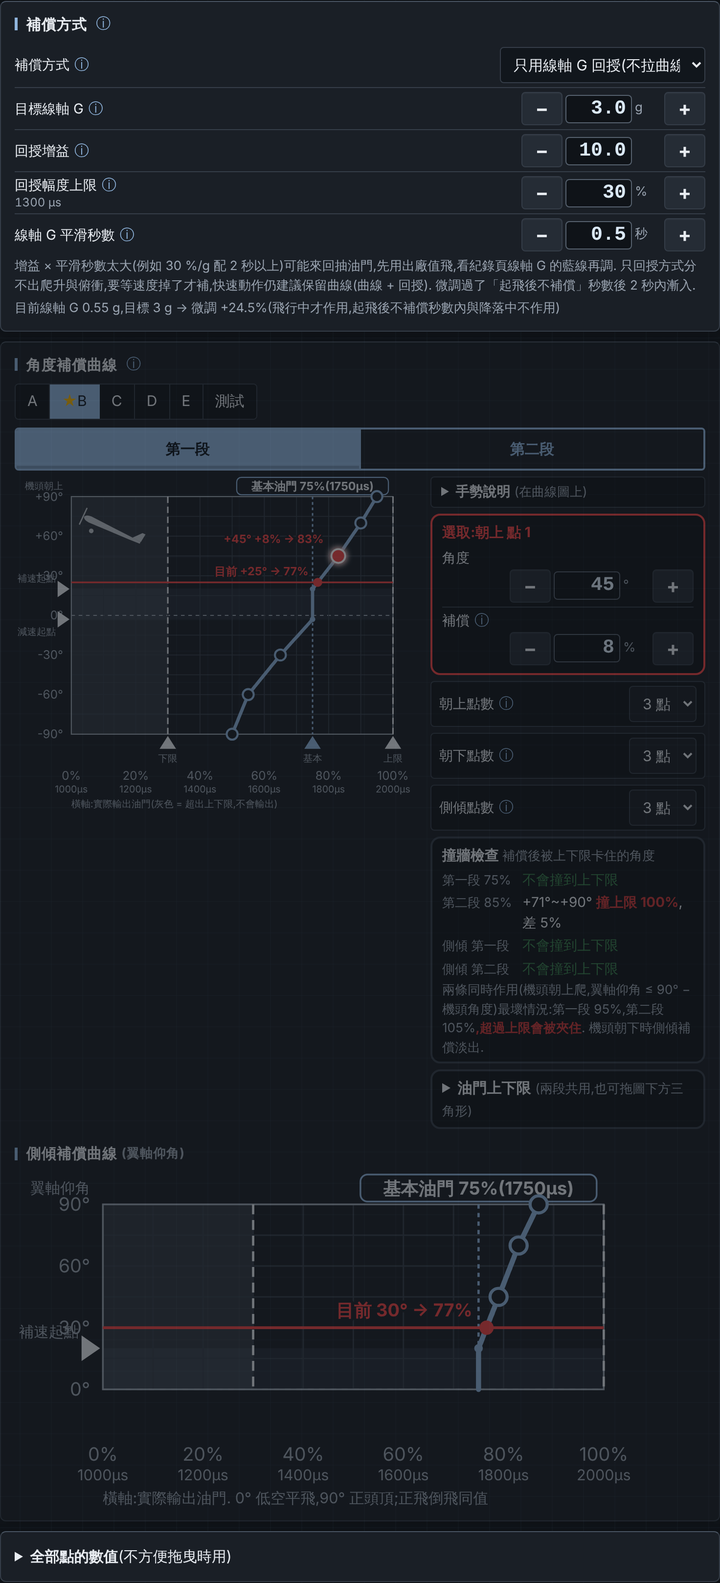
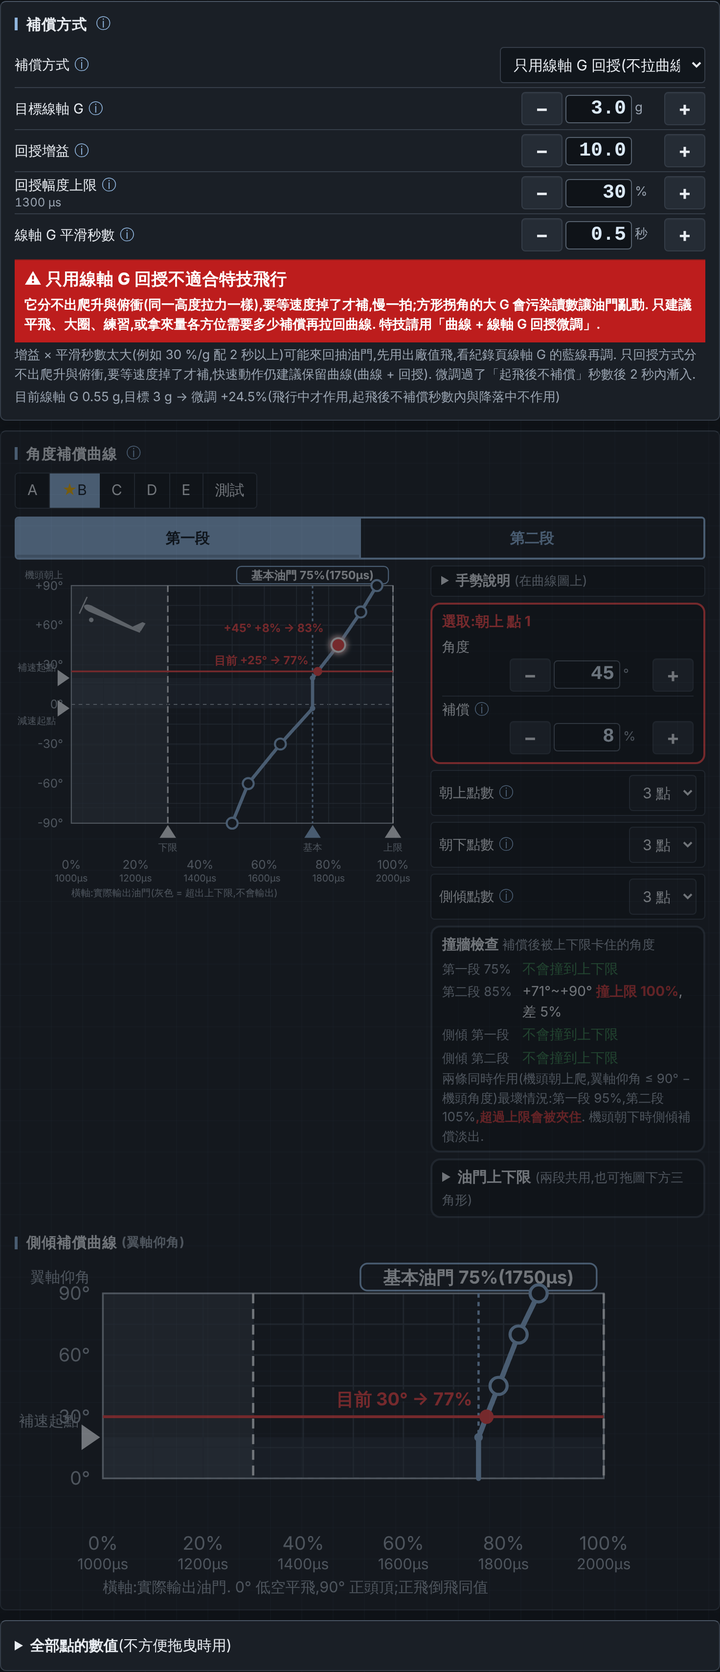
只回授選項加警語;飛行紀錄改存快閃 spiffs 分割區(斷電保留,倒數預擦,飛行中只寫頁);版本 2026.10.30.1
- web_page r99/r100:「只用線軸 G 回授」卡片內紅色警語;紀錄頁說明改成斷電保留
- flight_log r4/r5:128KB spiffs 分割區當環形紀錄(32 區塊 × 371 筆,序號標頭,mmap 讀取,RAM 佇列),約 19 分鐘;
  main r21 開機接續與 loop 寫入;flight r32 進入倒數時預擦這趟要用的區塊. RAM 38.6% → 19.3%
- 規格第 3 節,CLAUDE.md 關鍵決策,開發紀錄補上;截圖重拍(只回授警語),PDF 重產

Claude-Session: https://claude.ai/code/session_01BkPoWZidLMCM1nEQiRaMHx

diff --git a/src/flight_log.cpp b/src/flight_log.cpp
@@ -1,13 +1,41 @@
-// 版本流水號: r4 (2026-10-29) 每筆加翼軸仰角與方位角(區間最後的值)
+// 版本流水號: r5 (2026-10-30) 改存快閃 spiffs 分割區(環形,序號標頭,mmap 讀取,倒數預擦,loop 寫頁);RAM 佇列取代 66KB 環形緩衝
+// 舊: r4 (2026-10-29) 每筆加翼軸仰角與方位角(區間最後的值)
 // 舊: r3 (2026-10-29) 每筆加線軸 G(區間最後的低通值)
 // 舊: r2 (2026-09-13) 修正每筆實際 105ms(區間起點改走固定 100ms 格點)
 // 舊: r1 (2026-09-13) 初版:0.1 秒一筆的環形紀錄(角度,油門,G 力,Z 抖動,短尖峰,手勢推力,狀態)
 #include "flight_log.h"
+#include <esp_partition.h>
 
-static FlightLogSample buffer[FLIGHT_LOG_CAPACITY];
-static volatile uint32_t total = 0;
+// --- 快閃版面 ---
+static const uint32_t SECTOR = 4096;
+static const uint16_t MAGIC = 0x474C;   // "LG"
+struct __attribute__((packed)) SectorHeader {
+  uint16_t magic;
+  uint32_t seq;        // 從 1 起遞增,0 不用
+  uint8_t sampleSize;  // sizeof(FlightLogSample),格式變了舊區塊就當無效
+  uint8_t reserved;
+};
+static const uint16_t SAMPLES_PER_SECTOR = (SECTOR - sizeof(SectorHeader)) / sizeof(FlightLogSample);   // 371
+static const uint32_t PREPARE_MARGIN_SAMPLES = 600;   // 預擦多留 1 分鐘
 
-// 目前區間的累積
+static const esp_partition_t *part = nullptr;
+static const uint8_t *mapped = nullptr;   // mmap 後的唯讀視窗
+static uint16_t sectorCount = 0;
+static uint16_t headSector = 0;           // 正在寫的區塊
+static uint32_t headSeq = 0;              // 它的序號(0 = 還沒開始寫)
+static uint16_t headSlot = 0;             // 區塊內下一筆位置
+static uint32_t oldestSeq = 0;            // 保留範圍內最舊的序號
+static volatile uint32_t flashedTotal = 0;   // 已寫進快閃的全域筆數 = headSeq*371 + headSlot(headSeq 從 1 起,減 1 個區塊)
+static uint32_t inflightErases = 0;
+
+// --- 控制工作 → loop 的佇列(單一生產者,單一消費者) ---
+static const uint16_t QUEUE_CAP = 256;    // 25 秒;loop 被 WiFi 卡住超過這麼久才會丟
+static FlightLogSample queueBuf[QUEUE_CAP];
+static volatile uint16_t qHead = 0, qTail = 0;
+static volatile uint32_t dropped = 0;
+static volatile uint32_t prepareRequest = 0;   // 要先擦好的筆數(0 = 沒有請求)
+
+// 目前區間的累積(控制工作)
 static bool slotOpen = false;
 static uint32_t slotStartMs = 0;
 static FlightLogSample slot;
@@ -15,6 +43,142 @@ static float slotAcc = 0, slotVib = 0, slotSpike = 0, slotPush = -100;
 
 static uint8_t clampU8(float v) { return v <= 0 ? 0 : (v >= 255 ? 255 : (uint8_t)lroundf(v)); }
 static int8_t clampI8(float v) { return v <= -127 ? -127 : (v >= 127 ? 127 : (int8_t)lroundf(v)); }
+
+static inline uint32_t globalIndex(uint32_t seq, uint16_t s) { return (seq - 1) * SAMPLES_PER_SECTOR + s; }
+
+static const SectorHeader *headerOf(uint16_t sec) { return (const SectorHeader *)(mapped + (uint32_t)sec * SECTOR); }
+static bool sectorValid(uint16_t sec) {
+  const SectorHeader *h = headerOf(sec);
+  return h->magic == MAGIC && h->seq != 0 && h->seq != 0xFFFFFFFFu && h->sampleSize == sizeof(FlightLogSample);
+}
+static bool sectorErased(uint16_t sec) {
+  const uint32_t *p = (const uint32_t *)(mapped + (uint32_t)sec * SECTOR);
+  for (uint32_t i = 0; i < SECTOR / 4; ++i)
+    if (p[i] != 0xFFFFFFFFu) return false;
+  return true;
+}
+static bool sampleErased(const FlightLogSample *s) {
+  const uint8_t *b = (const uint8_t *)s;
+  for (size_t i = 0; i < sizeof(FlightLogSample); ++i)
+    if (b[i] != 0xFF) return false;
+  return true;
+}
+
+static void recomputeOldest() {
+  oldestSeq = 0;
+  for (uint16_t i = 0; i < sectorCount; ++i)
+    if (sectorValid(i) && (oldestSeq == 0 || headerOf(i)->seq < oldestSeq)) oldestSeq = headerOf(i)->seq;
+}
+
+void flightLogBegin() {
+  part = esp_partition_find_first(ESP_PARTITION_TYPE_DATA, ESP_PARTITION_SUBTYPE_DATA_SPIFFS, nullptr);
+  if (!part) {
+    Serial.println(F("flight log: no spiffs partition, log disabled"));
+    return;
+  }
+  esp_partition_mmap_handle_t h;
+  const void *ptr = nullptr;
+  if (esp_partition_mmap(part, 0, part->size, ESP_PARTITION_MMAP_DATA, &ptr, &h) != ESP_OK) {
+    Serial.println(F("flight log: mmap failed, log disabled"));
+    part = nullptr;
+    return;
+  }
+  mapped = (const uint8_t *)ptr;
+  sectorCount = part->size / SECTOR;
+  // 找序號最大的區塊接著寫;沒有任何有效區塊就從 0 號開始(第一次寫會擦)
+  uint32_t best = 0;
+  for (uint16_t i = 0; i < sectorCount; ++i)
+    if (sectorValid(i) && headerOf(i)->seq > best) { best = headerOf(i)->seq; headSector = i; }
+  if (best) {
+    headSeq = best;
+    const FlightLogSample *s = (const FlightLogSample *)(mapped + (uint32_t)headSector * SECTOR + sizeof(SectorHeader));
+    headSlot = 0;
+    while (headSlot < SAMPLES_PER_SECTOR && !sampleErased(&s[headSlot])) ++headSlot;
+  } else {
+    headSector = 0;
+    headSeq = 0;
+    headSlot = SAMPLES_PER_SECTOR;   // 第一筆就會開新區塊
+  }
+  recomputeOldest();
+  flashedTotal = headSeq ? globalIndex(headSeq, headSlot) : 0;
+  Serial.printf("flight log: flash %u sectors (%u samples, %.1f min), resume seq %lu slot %u, oldest seq %lu\n",
+                (unsigned)sectorCount, (unsigned)(sectorCount * SAMPLES_PER_SECTOR), sectorCount * SAMPLES_PER_SECTOR * 0.1f / 60,
+                (unsigned long)headSeq, (unsigned)headSlot, (unsigned long)oldestSeq);
+}
+
+// 開下一個區塊:沒擦的就地擦(飛行中會停 30~50ms,計數讓人看得到),寫標頭.
+static bool openNextSector(bool inFlight) {
+  const uint16_t next = headSeq ? (uint16_t)((headSector + 1) % sectorCount) : 0;
+  if (!sectorErased(next)) {
+    if (esp_partition_erase_range(part, (uint32_t)next * SECTOR, SECTOR) != ESP_OK) return false;
+    if (inFlight) {
+      ++inflightErases;
+      Serial.println(F("flight log: erased a sector in flight (flight longer than prepared)"));
+    }
+  }
+  const SectorHeader hdr = {MAGIC, headSeq + 1, (uint8_t)sizeof(FlightLogSample), 0xFF};
+  if (esp_partition_write(part, (uint32_t)next * SECTOR, &hdr, sizeof(hdr)) != ESP_OK) return false;
+  headSector = next;
+  headSeq = hdr.seq;
+  headSlot = 0;
+  recomputeOldest();   // 剛擦掉的可能是最舊的
+  return true;
+}
+
+void flightLogRequestPrepare(uint32_t samples) { prepareRequest = samples + PREPARE_MARGIN_SAMPLES; }
+
+// 預擦:從目前區塊之後開始,擦到能放下 samples 筆為止(已經是空的區塊跳過). 在地上做,停機沒關係.
+static void prepare(uint32_t samples) {
+  if (!part) return;
+  uint32_t room = headSeq ? (uint32_t)(SAMPLES_PER_SECTOR - headSlot) : 0;
+  uint16_t sec = headSeq ? headSector : (uint16_t)(sectorCount - 1);   // 還沒開始寫時,下一個區塊是 0 號
+  uint16_t erased = 0, visited = 0;
+  while (room < samples && visited < sectorCount - 1) {   // 最多擦到剩目前區塊,不把自己擦掉
+    sec = (uint16_t)((sec + 1) % sectorCount);
+    ++visited;
+    if (!sectorErased(sec)) {
+      if (esp_partition_erase_range(part, (uint32_t)sec * SECTOR, SECTOR) != ESP_OK) break;
+      ++erased;
+    }
+    room += SAMPLES_PER_SECTOR;
+  }
+  recomputeOldest();
+  Serial.printf("flight log: prepared %lu samples, erased %u sectors\n", (unsigned long)samples, (unsigned)erased);
+}
+
+void flightLogService(uint32_t nowMs) {
+  if (!part) {   // 沒有快閃:佇列只是丟掉
+    qTail = qHead;
+    return;
+  }
+  if (prepareRequest) {
+    const uint32_t n = prepareRequest;
+    prepareRequest = 0;
+    prepare(n);
+  }
+  static uint32_t lastFlushMs = 0;
+  const uint16_t pending = (uint16_t)((qHead - qTail + QUEUE_CAP) % QUEUE_CAP);
+  if (!pending || (nowMs - lastFlushMs < 1000 && pending < 23)) return;   // 每秒或湊滿約一頁(23 筆 = 253 位元組)才寫
+  lastFlushMs = nowMs;
+  // 佇列裡最新一筆的狀態決定「飛行中」(就地擦除計數用)
+  const bool inFlight = queueBuf[(qHead + QUEUE_CAP - 1) % QUEUE_CAP].state >= 4 && queueBuf[(qHead + QUEUE_CAP - 1) % QUEUE_CAP].state <= 6;
+  while (qTail != qHead) {
+    if (headSlot >= SAMPLES_PER_SECTOR || headSeq == 0) {
+      if (!openNextSector(inFlight)) return;   // 快閃失敗:這批留在佇列下次再試
+    }
+    // 連續的幾筆一次寫(同一區塊內),減少寫入次數
+    uint16_t n = 0;
+    FlightLogSample buf[32];
+    while (qTail != qHead && n < 32 && headSlot + n < SAMPLES_PER_SECTOR) {
+      buf[n++] = queueBuf[qTail];
+      qTail = (uint16_t)((qTail + 1) % QUEUE_CAP);
+    }
+    const uint32_t off = (uint32_t)headSector * SECTOR + sizeof(SectorHeader) + (uint32_t)headSlot * sizeof(FlightLogSample);
+    if (esp_partition_write(part, off, buf, n * sizeof(FlightLogSample)) != ESP_OK) return;
+    headSlot += n;
+    flashedTotal = globalIndex(headSeq, headSlot);
+  }
+}
 
 void flightLogFeed(float pitchDeg, float throttlePct, float accMagG, float vibG, float spikeG, float pushG,
                    float lineG, float sideDeg, float azimuthDeg, uint8_t state, uint8_t flags, uint32_t nowMs) {
@@ -45,21 +209,37 @@ void flightLogFeed(float pitchDeg, float throttlePct, float accMagG, float vibG,
   slot.vibCg2 = clampU8(slotVib * 50);
   slot.spikeDg = clampU8(slotSpike * 10);
   slot.pushDg = clampI8(slotPush * 10);
-  buffer[total % FLIGHT_LOG_CAPACITY] = slot;   // 先寫資料
-  total = total + 1;                             // 再推進計數
+  if (slot.throttlePct == 0xFF) slot.throttlePct = 0xFE;   // 全 0xFF 代表「還沒寫」,油門本來就不會到 255
+  const uint16_t next = (uint16_t)((qHead + 1) % QUEUE_CAP);
+  if (next == qTail) {   // 佇列滿:丟最舊的,計數
+    qTail = (uint16_t)((qTail + 1) % QUEUE_CAP);
+    ++dropped;
+  }
+  queueBuf[qHead] = slot;   // 先寫資料
+  qHead = next;             // 再推進
   slotOpen = false;
 }
 
-uint32_t flightLogTotal() { return total; }
+uint32_t flightLogTotal() { return flashedTotal; }
 
-uint32_t flightLogOldest() {
-  const uint32_t t = total;
-  // 環形已滿時丟掉最舊一筆:讀取期間它可能正被覆寫
-  return t > FLIGHT_LOG_CAPACITY ? t - FLIGHT_LOG_CAPACITY + 1 : 0;
-}
+uint32_t flightLogOldest() { return oldestSeq ? globalIndex(oldestSeq, 0) : flashedTotal; }
 
 bool flightLogGet(uint32_t index, FlightLogSample &out) {
-  if (index >= total || index < flightLogOldest()) return false;
-  out = buffer[index % FLIGHT_LOG_CAPACITY];
-  return true;
+  if (!part || !headSeq || index >= flashedTotal || index < flightLogOldest()) return false;
+  const uint32_t seq = index / SAMPLES_PER_SECTOR + 1, s = index % SAMPLES_PER_SECTOR;
+  // 序號 → 區塊:從目前區塊往回數(序號連續,中間不會跳號)
+  const uint32_t back = headSeq - seq;
+  if (back >= sectorCount) return false;
+  const uint16_t sec = (uint16_t)((headSector + sectorCount - back) % sectorCount);
+  if (!sectorValid(sec) || headerOf(sec)->seq != seq) return false;
+  memcpy(&out, mapped + (uint32_t)sec * SECTOR + sizeof(SectorHeader) + s * sizeof(FlightLogSample), sizeof(out));
+  return !sampleErased(&out);
+}
+
+void flightLogStats(bool &flashOk, uint16_t &sectors, uint32_t &seq, uint32_t &droppedOut, uint32_t &erases) {
+  flashOk = part != nullptr;
+  sectors = sectorCount;
+  seq = headSeq;
+  droppedOut = dropped;
+  erases = inflightErases;
 }

diff --git a/src/flight_log.h b/src/flight_log.h
@@ -1,21 +1,23 @@
-// 版本流水號: r3 (2026-10-29) 每筆加翼軸仰角 sideDeg(0~90)與方位角 azim(0~255 = 0~360°);一筆 11 位元組,3D 半球軌跡用
+// 版本流水號: r4 (2026-10-30) 改存快閃(GG:斷電保留):閒置的 spiffs 分割區 128KB 當環形紀錄,約 19 分鐘;控制工作只推進 RAM 佇列,
+//   Arduino loop 寫快閃;倒數時先擦好這趟要用的區塊,飛行中只寫頁(停 1ms),不擦(停 30~50ms 會漏姿態). 網頁讀取靠 mmap,格式不變
+// 舊: r3 (2026-10-29) 每筆加翼軸仰角 sideDeg(0~90)與方位角 azim(0~255 = 0~360°);一筆 11 位元組,3D 半球軌跡用
 // 舊: r2 (2026-10-29) 每筆加線軸 G(0.1g 單位,區間最後的低通值);一筆 9 位元組,網頁依 /api/log 標頭的每筆大小解碼
 // 舊: r1 (2026-09-13) 初版:0.1 秒一筆的環形紀錄(角度,油門,G 力,Z 抖動,短尖峰,手勢推力,狀態)
 #pragma once
 #include <Arduino.h>
 // ============================================================================
 // 飛行紀錄. 控制工作每個節拍餵資料,每 100ms 收成一筆(區間內取最大值,短尖峰不會漏掉).
-// 一直在記(不分飛行或地面),保留最近 10 分鐘,重新通電清除.
-// 為什麼記在板子上:飛行中手機在飛手口袋裡,不可能即時接收. 降落後再打開紀錄頁看.
-// 用途(GG 第三輪回饋):先關掉提早降落飛幾個特技,看特技的最高 G 力與地面滑行的抖動各是多少,再訂門檻.
+// 一直在記(不分飛行或地面),存在快閃的 spiffs 分割區(分割表 min_spiffs 給了 128KB,韌體沒用它當檔案系統),
+// 斷電保留,寫滿自動覆蓋最舊的;韌體更新不動這塊. 為什麼記在板子上:飛行中手機在飛手口袋裡,不可能即時接收.
 //
-// 記憶體:一筆 11 位元組 × 6000 筆 = 66KB,開機時靜態配置,不碎片化.
-// 讀取端(網頁)不上鎖直接讀:寫入是「先寫資料再推進計數」,讀到的一定是完整的舊資料;
-// 唯一的風險是環形覆寫時最舊那一筆被改寫,讀取端丟掉最舊一筆即可.
+// 快閃版面:32 個 4KB 區塊,每塊 8 位元組標頭(magic,序號,每筆大小)+ 371 筆. 序號遞增,開機掃標頭找最新的區塊接著寫.
+// 全域編號 = 序號 × 371 + 區塊內位置,網頁的增量讀取不用改. 讀取用 mmap(記憶體映射,走快取,不停機).
+// 寫入時機:控制工作只把收成的一筆推進 RAM 佇列(不碰快閃);loop 每秒把佇列寫進快閃(寫一頁約停 1ms).
+// 擦除區塊會讓整顆晶片停 30~50ms(控制工作漏 6~10 拍姿態),所以進入倒數時先把這趟要用的區塊擦好(flightLogRequestPrepare),
+// 飛行中只在擦好的區塊裡寫;真的寫到沒擦的區塊才就地擦(飛太久才會遇到).
 // ============================================================================
 
 const uint16_t FLIGHT_LOG_SAMPLE_MS = 100;
-const uint16_t FLIGHT_LOG_CAPACITY = 6000;   // 10 分鐘
 
 // 旗標位元
 const uint8_t LOG_FLAG_LEVEL = 0x01;          // 正飛水平(提早降落的姿態條件)
@@ -37,12 +39,20 @@ struct __attribute__((packed)) FlightLogSample {
   uint8_t azim;         // 方位角 0~255 = 0~360°(r3):半球上繞飛手的角度,馬達啟動時歸零
 };
 
+// 開機呼叫(控制工作啟動前):找分割區,mmap,掃標頭接續上次的位置. 找不到分割區就只用 RAM 佇列(網頁看不到紀錄).
+void flightLogBegin();
+// Arduino loop 每圈呼叫:把佇列寫進快閃,處理擦除請求.
+void flightLogService(uint32_t nowMs);
+// 進入倒數時呼叫(控制工作):請 loop 把接下來 samples 筆要用的區塊先擦好.
+void flightLogRequestPrepare(uint32_t samples);
 // 控制工作呼叫. 各值取區間最大,時間到自動收成一筆.
 void flightLogFeed(float pitchDeg, float throttlePct, float accMagG, float vibG, float spikeG, float pushG,
                    float lineG, float sideDeg, float azimuthDeg, uint8_t state, uint8_t flags, uint32_t nowMs);
-// 已寫入的總筆數(單調遞增,讀取端拿來做增量更新).
+// 已寫進快閃的總筆數(單調遞增,讀取端拿來做增量更新). 佇列裡還沒寫的不算.
 uint32_t flightLogTotal();
 // 取第 index 筆(以總筆數編號). 不在保留範圍內回 false.
 bool flightLogGet(uint32_t index, FlightLogSample &out);
 // 保留範圍內最舊的一筆編號.
 uint32_t flightLogOldest();
+// 診斷:快閃可用,區塊數,目前區塊序號,佇列溢出丟掉的筆數,飛行中就地擦除次數.
+void flightLogStats(bool &flashOk, uint16_t &sectors, uint32_t &seq, uint32_t &dropped, uint32_t &inflightErases);

diff --git a/src/web_page.h b/src/web_page.h
@@ -1,4 +1,6 @@
-// 版本流水號: r98 (2026-10-29) 3D 半球(GG):監看頁「3D 半球位置」(高度角 = 翼軸仰角,方位角 = 陀螺儀積分,箭頭為飛行方向,顏色/文字為曲線補償;拖曳旋轉),
+// 版本流水號: r100 (2026-10-30) 紀錄頁說明改成斷電保留(紀錄存快閃)
+// 舊: r99 (2026-10-30) 「只用線軸 G 回授」選項加警語(GG:純回授分不出爬升俯衝、慢一拍、拐角讀數會被污染,只適合平飛大圈與練習)
+// 舊: r98 (2026-10-29) 3D 半球(GG):監看頁「3D 半球位置」(高度角 = 翼軸仰角,方位角 = 陀螺儀積分,箭頭為飛行方向,顏色/文字為曲線補償;拖曳旋轉),
 //   紀錄頁 3D 飛行軌跡(油門著色,游標白點);補償預覽不再在地上顯示回授預測;側傾說明加俯衝淡出;撞牆檢查加兩條同時作用的最壞情況;回授增益提示
 // 舊: r97 (2026-10-29) 補償方式與線軸 G 回授(GG):角度補償頁新卡「補償方式」(曲線 / 曲線+回授 / 只回授)與目標 G,增益,幅度,低通,
 //   即時顯示線軸 G 與微調量,只回授時曲線卡變淡;監看頁加線軸 G 讀數,補償預覽與飛行中面板含 G 微調;紀錄頁 G 力面板加線軸 G(藍),游標與統計加線軸 G
@@ -579,7 +581,7 @@ button.b.danger{color:#ff9292;border-color:#ac4b4b;background:#361e20}
 <section id="log" hidden>
  <div class="card">
   <h2>G 力與姿態紀錄</h2>
-  <div class="cnote">板子一直記錄最近 10 分鐘(每 0.1 秒一筆,重新通電清除),飛完打開來看. 訂門檻的作法:先關閉提早降落,飛幾個特技看「總 G」與「Z 抖動」最高多少,再看地面滑行的抖動,門檻訂在兩者之間. 點或拖圖表看該時刻的數值;下方最大值只算目前畫面範圍.</div>
+  <div class="cnote">板子一直記錄(每 0.1 秒一筆),存在快閃裡<b>斷電保留</b>,約 19 分鐘(3 趟 5 分鐘的飛行),寫滿自動覆蓋最舊的,韌體更新不會清掉. 回家再打開來看也可以. 訂門檻的作法:先關閉提早降落,飛幾個特技看「總 G」與「Z 抖動」最高多少,再看地面滑行的抖動,門檻訂在兩者之間. 點或拖圖表看該時刻的數值;下方最大值只算目前畫面範圍.</div>
   <div class="row" style="margin-top:2px"><span class="seg" id="logWin"><button data-s="60">1 分</button><button data-s="180" class="on">3 分</button><button data-s="600">10 分</button></span>
    <button class="b" id="btnLogPause">暫停更新</button><span class="sub" id="logInfo"></span></div>
   <div class="grid g3" id="logStats"></div>
@@ -1193,12 +1195,14 @@ function buildCompMode(){
   const box=$('compModeCards');box.innerHTML='';
   box.appendChild(makeSelect('p','compMode','補償方式',COMP_NAMES,'曲線:照角度曲線補償(原本的做法). 曲線 + 回授:曲線之外再依線軸 G 微調,讓每個方位的拉力一樣. 只回授:不用曲線,基本油門 + 回授微調,幅度上限就是它能加減的範圍.'));
   for(const k of ['gTarget','gGain','gLimit','gFilter'])box.appendChild(makeParam('p',k));
+  box.insertAdjacentHTML('beforeend','<div class="asoff" id="compModeWarn" hidden style="margin:4px 0"><b>⚠ 只用線軸 G 回授不適合特技飛行</b><span>它分不出爬升與俯衝(同一高度拉力一樣),要等速度掉了才補,慢一拍;方形拐角的大 G 會污染讀數讓油門亂動. 只建議平飛、大圈、練習,或拿來量各方位需要多少補償再拉回曲線. 特技請用「曲線 + 線軸 G 回授微調」.</span></div>');
   box.insertAdjacentHTML('beforeend','<div class="sub" style="margin:2px 0 4px">增益 × 平滑秒數太大(例如 30 %/g 配 2 秒以上)可能來回抽油門,先用出廠值飛,看紀錄頁線軸 G 的藍線再調. 只回授方式分不出爬升與俯衝,要等速度掉了才補,快速動作仍建議保留曲線(曲線 + 回授). 微調過了「起飛後不補償」秒數後 2 秒內漸入.</div>');
  }
  // 只回授時曲線用不到:曲線卡變淡並提示(仍可編輯,切回去就生效);回授參數在「曲線」方式下變淡
  const m=p.compMode|0,cc=$('curveMainCard');
  if(cc){cc.style.opacity=m===2?'.45':'';cc.title=m===2?'補償方式是「只用線軸 G 回授」,這些曲線飛行時不會用到':''}
  for(const w of WIDGETS)if(['gTarget','gGain','gLimit','gFilter'].includes(w.key)&&w.scope==='p')w.el.style.opacity=m===0?'.45':'';
+ const warn=$('compModeWarn');if(warn)warn.hidden=m!==2;
  if(STATUS)updateGfbLive(STATUS);
 }
 // 即時:目前線軸 G 與依目前參數算出的微調量(與韌體同一個算式)

diff --git a/src/main.cpp b/src/main.cpp
@@ -1,4 +1,5 @@
-// 版本流水號: r20 (2026-09-25) 帶螢幕板 OLED(displayBegin/displayTick);開機印板子種類與安全開關腳位;序列指令 buzz(蜂鳴器診斷)
+// 版本流水號: r21 (2026-10-30) 飛行紀錄改存快閃:flightLogBegin 在控制工作前,loop 呼叫 flightLogService
+// 舊: r20 (2026-09-25) 帶螢幕板 OLED(displayBegin/displayTick);開機印板子種類與安全開關腳位;序列指令 buzz(蜂鳴器診斷)
 // 舊: r19 (2026-09-14) 載入設定後蜂鳴器腳位依設定的電位先設成不響(buzzerBegin)
 // 舊: r18 (2026-09-14) 開機檢查設定備份碼的編碼表(backupSelfCheck)
 // 舊: r17 (2026-09-14) 序列指令 armwait <秒>|off(測試用縮短安全開關等待上限,軟體重開保留)
@@ -37,6 +38,7 @@
 #include "settings.h"
 #include "settings_backup.h"
 #include "buzzer.h"
+#include "flight_log.h"
 #include "display.h"
 #include "flight.h"
 #include "fw_update.h"
@@ -440,6 +442,7 @@ void setup() {
   if (escCalibrate) Serial.printf("ESC calibration: output %uus for %.1fs\n", sharedSettings.escMaxUs, sharedSettings.calibHoldSec);
   else if (escCalibPending()) Serial.println(F("ESC calibration pending (waits for a power-on reset)"));
   testArmOverrideBoot();   // 測試用安全開關覆寫(軟體重開保留),要在控制工作開始讀之前
+  flightLogBegin();   // 飛行紀錄接續快閃上次的位置(控制工作開始餵之前)
   fwUpdateBegin();   // 新韌體待確認或上次更新被退回;要在控制工作讀 fwUpdateBlockReason 之前設好(安全審查 2-F:原本在控制工作之後)
   controlBegin(imuOk, escCalibrate, escCalibStartMs);
 
@@ -455,6 +458,7 @@ void loop() {
   wifiTick();
   webTick();
   fwUpdateTick(millis());
+  flightLogService(millis());   // 佇列寫進快閃,倒數時預擦
   escCalibTick(millis());   // 校正旗標時效
   displayTick(millis());
   static uint32_t lastPrintMs = 0;

diff --git a/src/flight.cpp b/src/flight.cpp
@@ -1,4 +1,5 @@
-// 版本流水號: r31 (2026-10-29) 審查修正:側傾補償 × flightSideCompFactor(俯衝淡出,快滾關閉);線軸 G 先低通帶號值再取絕對值(震動不整流,線鬆不翻號);
+// 版本流水號: r32 (2026-10-30) 進入倒數時請紀錄模組預擦這趟要用的快閃區塊
+// 舊: r31 (2026-10-29) 審查修正:側傾補償 × flightSideCompFactor(俯衝淡出,快滾關閉);線軸 G 先低通帶號值再取絕對值(震動不整流,線鬆不翻號);
 //   待機低通固定 0.5 秒(fp 是上一趟的快照),感測器故障歸零;回授微調過了不補償秒數後 2 秒線性漸入(模擬發現起飛加速慢時會一次跳 +20%)
 // 舊: r30 (2026-10-29) 線軸 G 回授(GG:任何方位相同的外甩手感):線軸 G = |加速度計 y 軸| 低通,微調 = (目標 − 線軸 G) × 增益 夾 ±上限;
 //   補償方式 曲線 / 曲線+回授 / 只回授. 回授與曲線同一個啟用條件(感測器正常且過了不補償秒數),降落中不補償
@@ -40,6 +41,7 @@
 #include "flight.h"
 #include "esc_service.h"
 #include "event_log.h"
+#include "flight_log.h"
 
 static const uint32_t ESC_ARM_MS = 3000;            // 上電後給電變最低油門的解鎖時間
 static const float SETTLE_REQUIRED_S = 1.0f;        // 放穩要維持多久才開始(或繼續)倒數
@@ -193,6 +195,8 @@ static bool lastGearUp = false;
 static void enter(FlightState s) {
   state = s;
   stateStartMs = nowMsCache;
+  // 進入倒數:請 loop 先把這趟飛行(總時間 + 降落保險 + 1 分鐘)要用的紀錄區塊擦好,飛行中就不必擦(擦除停機會漏姿態)
+  if (s == FS_COUNTDOWN) flightLogRequestPrepare((uint32_t)(fp.flightSec + fs.landingTimeoutSec + 60) * (1000 / FLIGHT_LOG_SAMPLE_MS));
 }
 
 static bool motorState(FlightState s) { return s == FS_TAKEOFF || s == FS_FLYING || s == FS_LANDING; }

diff --git a/src/version.h b/src/version.h
@@ -7,7 +7,7 @@
 // 格式:年.月.日.當天第幾版,例如 2026.09.14.1. 板子逐段比數字(fwVersionCompare),網站版本比目前新才可以下載安裝;
 // 要讓板子換回舊的程式,用新的版本號重新發布. 手動上傳韌體檔不限版本新舊,但要有身分標記(fw_update.h FW_ID_PREFIX).
 // ============================================================================
-#define FW_VERSION "2026.10.29.2"
+#define FW_VERSION "2026.10.30.1"
 
 // 板子自己下載更新的來源:GG 的公開 GitHub 專案(只放韌體檔,不放原始碼).
 // manifest.json 內容:{"version":"…","size":位元組,"sha256":"64 個十六進位","file":"firmware/firmware-版本.bin","notes":"更新說明"}

diff --git a/CLAUDE.md b/CLAUDE.md
@@ -92,4 +92,5 @@
 - WiFi 設定用獨立 NVS 命名空間 `lpwifi`,不放進飛行設定結構.
 - 副廠 MPU6050 誤差大(開發板靜止讀 1.12g):任何判斷不要依賴「剛好 1g」.
 - 姿態用向心力補償的 Mahony,飛行 Kp 0.3. 依據是 tools/sim_attitude.py 的模擬,改演算法先跑模擬.
-- 電變訊號用 GPIO4(重置期間無毛刺). 分割表 min_spiffs(OTA 需要兩個插槽).
+- 電變訊號用 GPIO4(重置期間無毛刺). 分割表 min_spiffs(OTA 需要兩個插槽). **spiffs 分割區 128KB 給飛行紀錄用**(GG 2026-10-30,斷電保留;不當檔案系統,
+  flight_log.cpp 直接用 esp_partition 讀寫 + mmap). 寫快閃整顆晶片會停(擦 4KB 約 30~50ms),所以進入倒數時預擦,飛行中只寫頁;不要在控制工作裡碰快閃.
